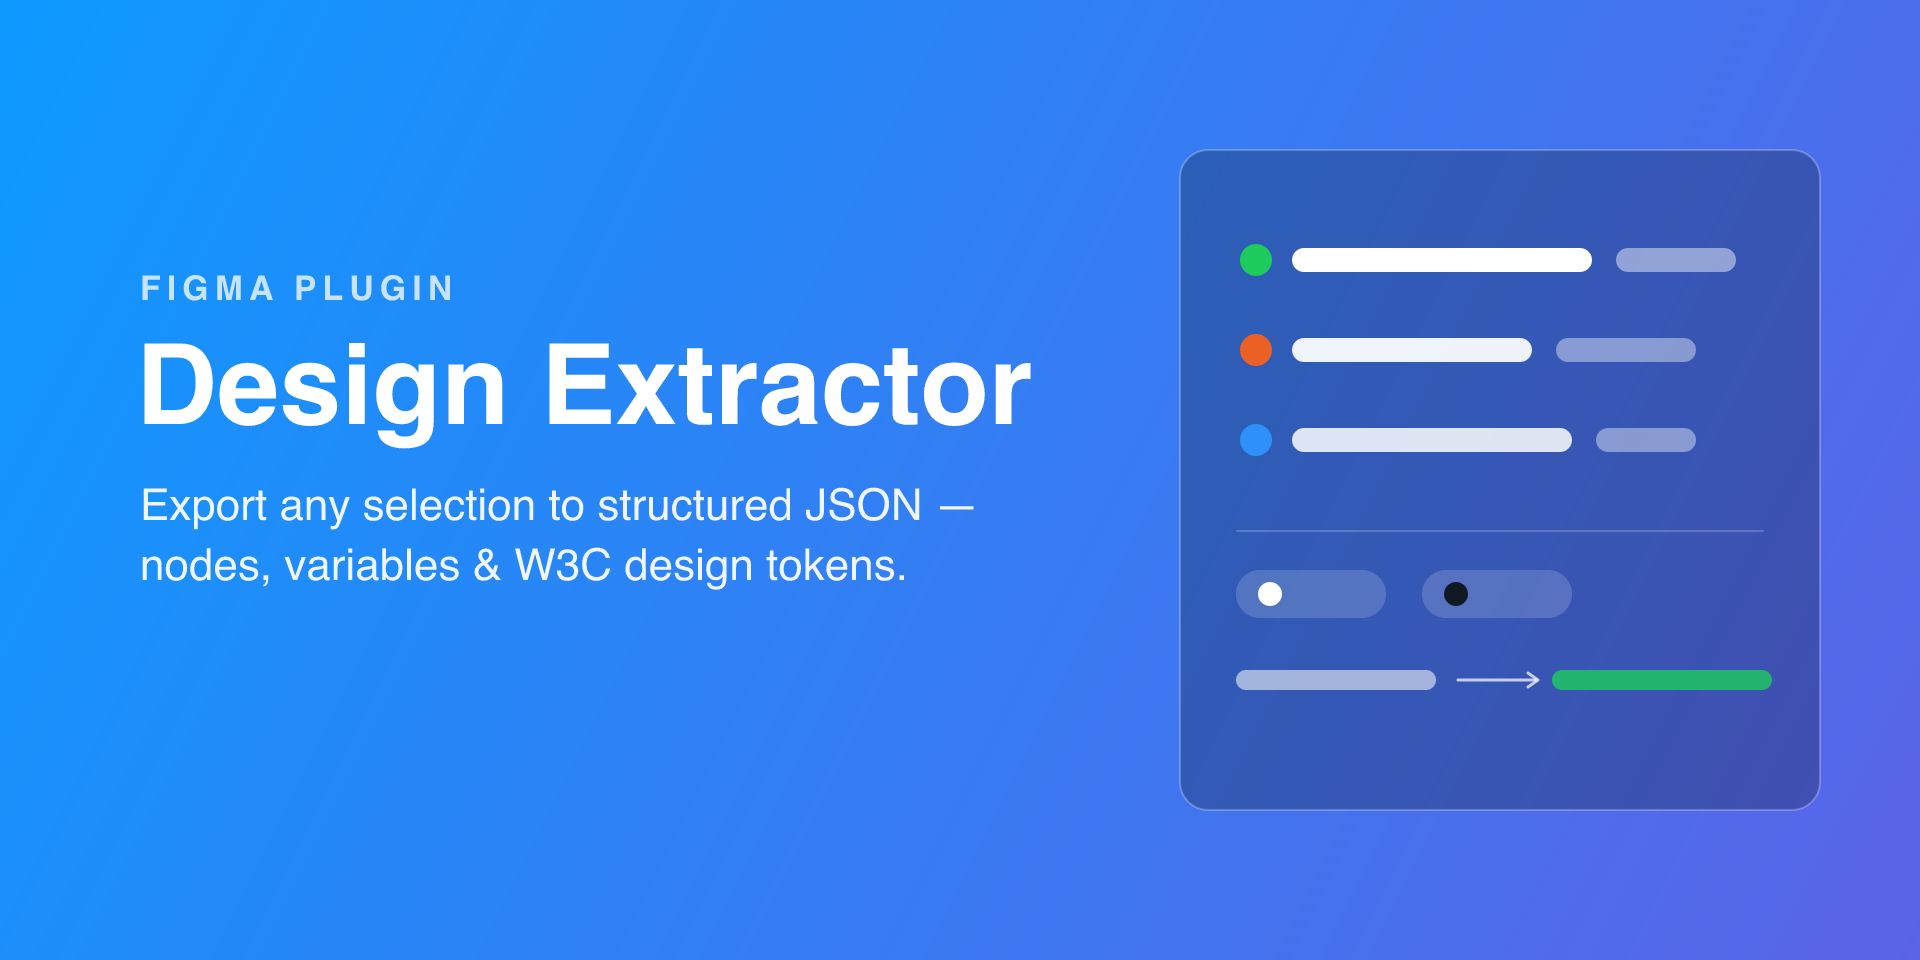
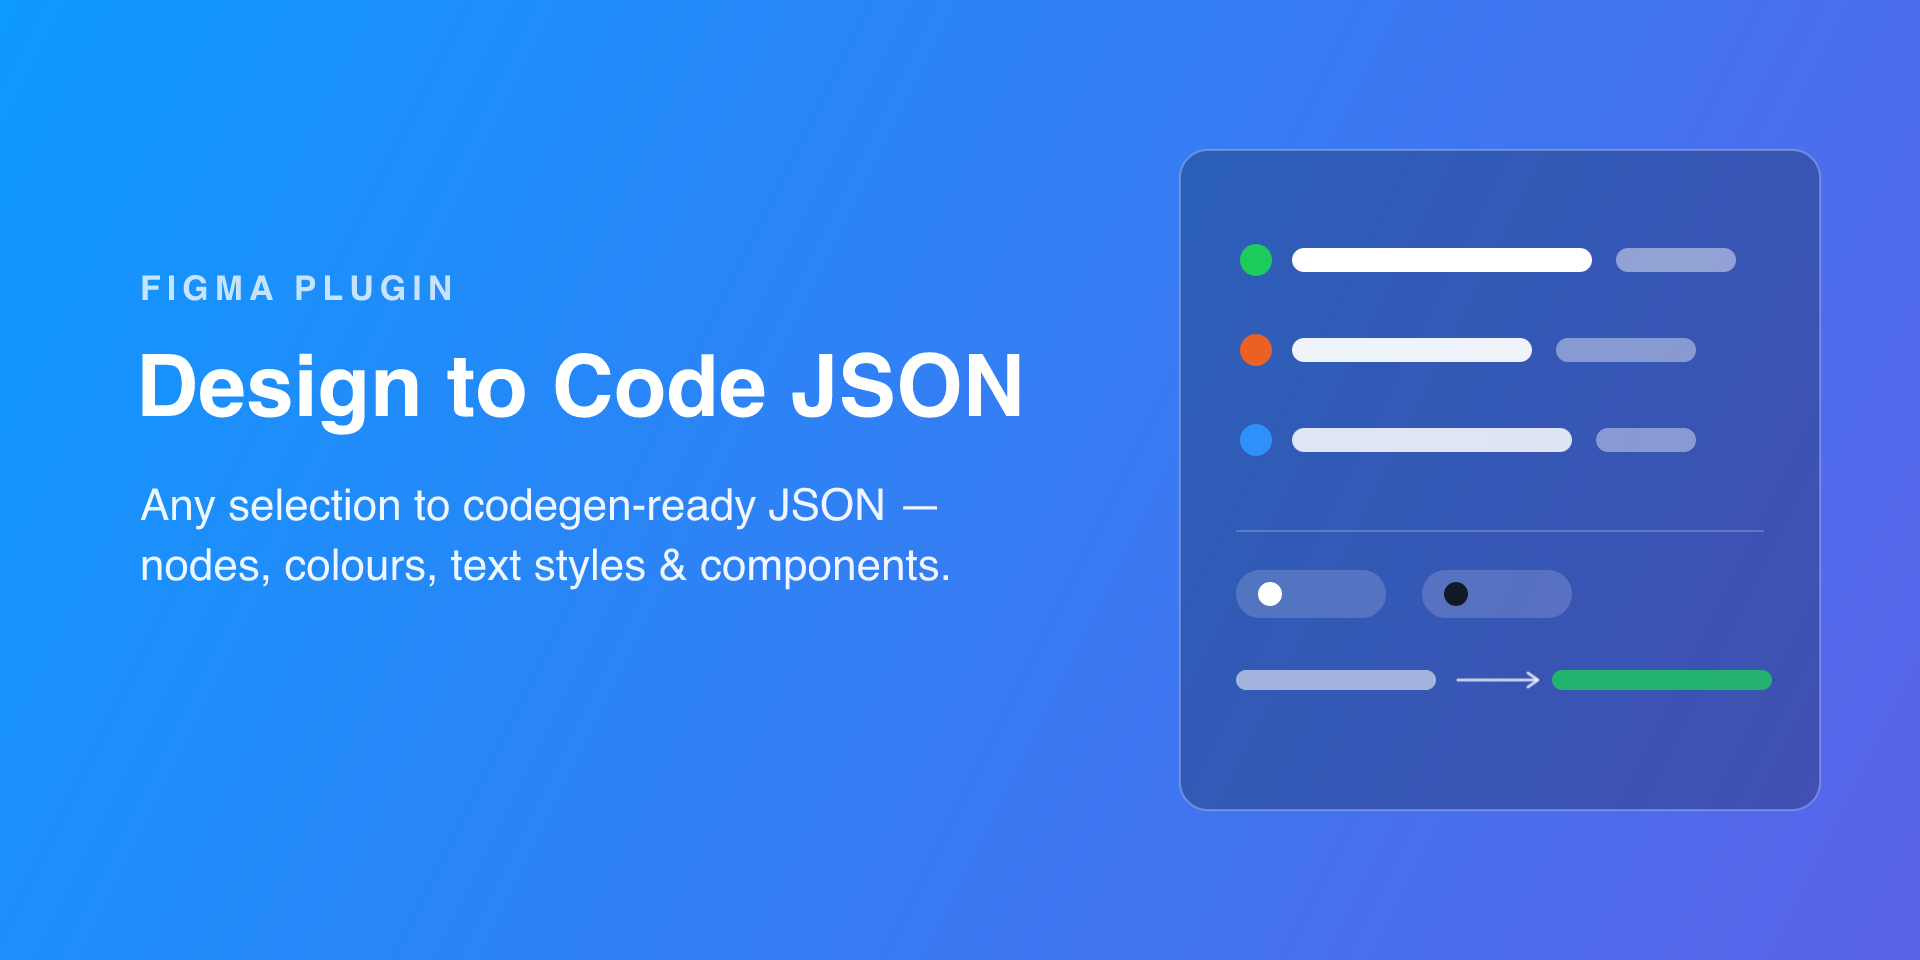
Rename to Design to Code JSON
Plugin, package, manifest id, UI, README, listing copy, and cover art.

Changed region(s): [[0.0625, 0.5, 0.5, 0.625], [0.0625, 0.3438, 0.5312, 0.4688]]

diff --git a/src/code.ts b/src/code.ts
@@ -518,7 +518,7 @@ async function run(forceCatalogRefresh = false): Promise<void> {
   figma.ui.postMessage({ type: 'result', json: JSON.stringify(doc, null, 2), empty: sel.length === 0 });
 }
 
-figma.showUI(__html__, { width: 480, height: 620, title: 'Design Extractor' });
+figma.showUI(__html__, { width: 480, height: 620, title: 'Design to Code JSON' });
 figma.ui.onmessage = async (msg: any) => {
   if (msg.type === 'options') {
     options = { ...options, ...msg.options };

diff --git a/src/ui.html b/src/ui.html
@@ -32,7 +32,7 @@
   </head>
   <body>
     <div class="row">
-      <h1>Design Extractor</h1>
+      <h1>Design to Code JSON</h1>
       <button class="ghost" id="refresh">Re-read</button>
       <button class="primary" id="copy">Copy JSON</button>
     </div>

diff --git a/LISTING.md b/LISTING.md
@@ -3,13 +3,13 @@
 Paste these into the Figma **Publish** modal. Assets are in `assets/`.
 
 ## Name
-Design Extractor
+Design to Code JSON
 
 ## Tagline (≤ ~60 chars)
 Export any selection to JSON — nodes, variables & tokens
 
 ## Description
-Design Extractor turns a Figma selection into one clean JSON document you can
+Design to Code JSON turns a Figma selection into one clean JSON document you can
 feed to codegen, a token pipeline, or an LLM.
 
 It captures:

diff --git a/README.md b/README.md
@@ -1,4 +1,4 @@
-# Design Extractor (Figma plugin)
+# Design to Code JSON (Figma plugin)
 
 Exports the selected frame(s) as a single structured **JSON** document — a
 compact node tree plus flat reference catalogs for the **colours** and **text
@@ -115,7 +115,7 @@ loading the plugin in Figma.
 1. `npm run check` (produces `dist/code.js`).
 2. Figma desktop → **Plugins → Development → Import plugin from manifest…** →
    pick `manifest.json`.
-3. Select a frame → **Plugins → Development → Design Extractor**.
+3. Select a frame → **Plugins → Development → Design to Code JSON**.
 4. Output updates as you change selection. **Copy JSON**.
 
 Runs entirely offline under your own Figma session. Reading variables is **not